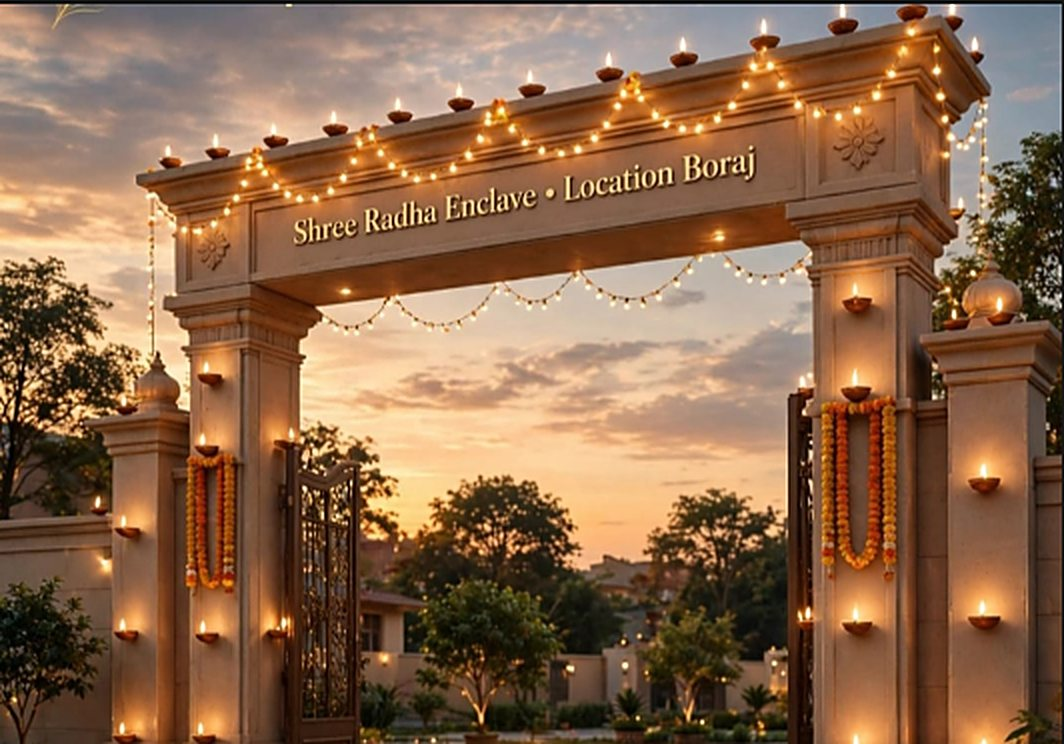
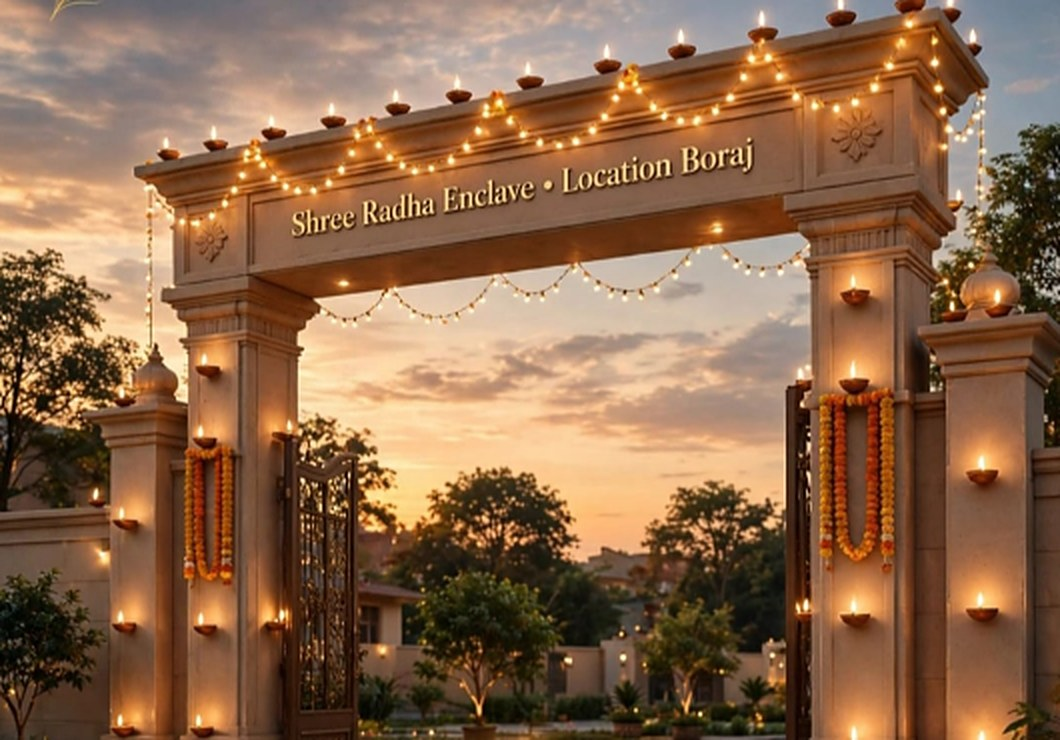
Show full gate photo in hero; photo first on mobile
Claude-Session: https://claude.ai/code/session_01JgRyAP6S8RynEeEyqHw8Zq

diff --git a/index.html b/index.html
@@ -73,7 +73,7 @@
 
   /* Hero */
   .hero{background:radial-gradient(1200px 500px at 85% 10%,#F3D9B1 0%,transparent 60%),linear-gradient(180deg,#F7E6CB 0%,var(--sand) 100%);padding:clamp(40px,6vw,80px) 0 clamp(56px,7vw,90px)}
-  .hero-grid{display:grid;grid-template-columns:1.02fr 1fr;align-items:center;gap:3.2rem}
+  .hero-grid{display:grid;grid-template-columns:.92fr 1.12fr;align-items:center;gap:3.2rem}
   .pill{display:inline-flex;align-items:center;gap:.5rem;background:var(--green);color:#F7E9C6;border-radius:999px;padding:.4rem .95rem;font-size:.8rem;font-weight:800;letter-spacing:.08em;text-transform:uppercase;margin-bottom:1.1rem}
   .pill i{width:8px;height:8px;border-radius:50%;background:#7BD389;box-shadow:0 0 0 4px rgba(123,211,137,.25)}
   .hero h1 em{font-style:italic;color:var(--terra)}
@@ -87,14 +87,14 @@
   .price-card b small{font-family:Manrope,sans-serif;font-size:.8rem;color:var(--muted);font-weight:600}
   .price-card.hot b{color:var(--terra)}
   .hero-photo{position:relative}
-  .hero-photo .frame{border-radius:220px 220px 26px 26px;overflow:hidden;box-shadow:0 40px 70px -30px rgba(31,61,43,.55);border:6px solid #fff;aspect-ratio:4/4.1}
-  .hero-photo img{width:100%;height:100%;object-fit:cover;object-position:50% 30%}
-  .hero-photo .tag{position:absolute;left:-18px;bottom:28px;background:#fff;border-radius:16px;padding:.8rem 1rem;display:flex;gap:.7rem;align-items:center;box-shadow:var(--shadow)}
+  .hero-photo .frame{border-radius:26px;overflow:hidden;box-shadow:0 40px 70px -30px rgba(31,61,43,.55);border:6px solid #fff;background:#fff}
+  .hero-photo img{width:100%;height:auto;border-radius:20px}
+  .hero-photo .tag{position:absolute;left:-18px;bottom:-22px;background:#fff;border-radius:16px;padding:.8rem 1rem;display:flex;gap:.7rem;align-items:center;box-shadow:var(--shadow)}
   .hero-photo .tag b{display:block;color:var(--green);font-size:.95rem}
   .hero-photo .tag span{font-size:.8rem;color:var(--muted)}
-  .hero-photo .approved{position:absolute;right:-12px;top:34px;background:var(--green);color:#fff;border-radius:999px;padding:.55rem 1rem;font-weight:800;font-size:.85rem;display:flex;gap:.45rem;align-items:center;box-shadow:var(--shadow)}
+  .hero-photo .approved{position:absolute;right:-12px;top:-16px;background:var(--green);color:#fff;border-radius:999px;padding:.55rem 1rem;font-weight:800;font-size:.85rem;display:flex;gap:.45rem;align-items:center;box-shadow:var(--shadow)}
   .art-note{font-size:.72rem;color:var(--muted);text-align:center;margin-top:.7rem}
-  @media (max-width:900px){.hero-grid{grid-template-columns:1fr}.hero-photo{max-width:520px;margin:0 auto;width:100%}.hero-photo .tag{left:8px}.hero-photo .approved{right:8px}}
+  @media (max-width:900px){.hero-grid{grid-template-columns:1fr;gap:2.4rem}.hero-photo{max-width:560px;margin:14px auto 0;width:100%;order:-1}.price-card{flex:1 1 140px}.price-card b{font-size:1.2rem}.hero-photo .tag{display:none}.hero-photo .tag{left:8px}.hero-photo .approved{right:8px}}
 
   /* Facts strip */
   .facts{background:var(--green);color:#EAF0E8;padding:0}
@@ -287,13 +287,13 @@
       </div>
     </div>
     <div class="hero-photo">
-      <div class="frame"><img src="img/gate.jpg" alt="Entrance gate of Shree Radha Enclave, Boraj, lit with diyas" width="1064" height="744"></div>
+      <div class="frame"><img src="img/gate.jpg" alt="Entrance gate of Shree Radha Enclave, Boraj, lit with diyas" width="1060" height="740"></div>
       <div class="approved"><svg width="16" height="16" viewBox="0 0 24 24" fill="none" stroke="currentColor" stroke-width="3" stroke-linecap="round" stroke-linejoin="round"><path d="M5 12l5 5L20 7"/></svg>Society Approved</div>
       <div class="tag">
         <svg width="34" height="34" viewBox="0 0 24 24" fill="none" stroke="#B4532A" stroke-width="2" stroke-linecap="round" stroke-linejoin="round"><path d="M12 21s-7-6.5-7-12a7 7 0 0 1 14 0c0 5.5-7 12-7 12z"/><circle cx="12" cy="9" r="2.5"/></svg>
         <div><b>Boraj, Ajmer Road</b><span>Jaipur, Rajasthan</span></div>
       </div>
-      <p class="art-note">Artist's impression of the entrance gate</p>
+      <p class="art-note" style="text-align:right;margin-top:.9rem">Artist's impression of the entrance gate</p>
     </div>
   </div>
 </section>
